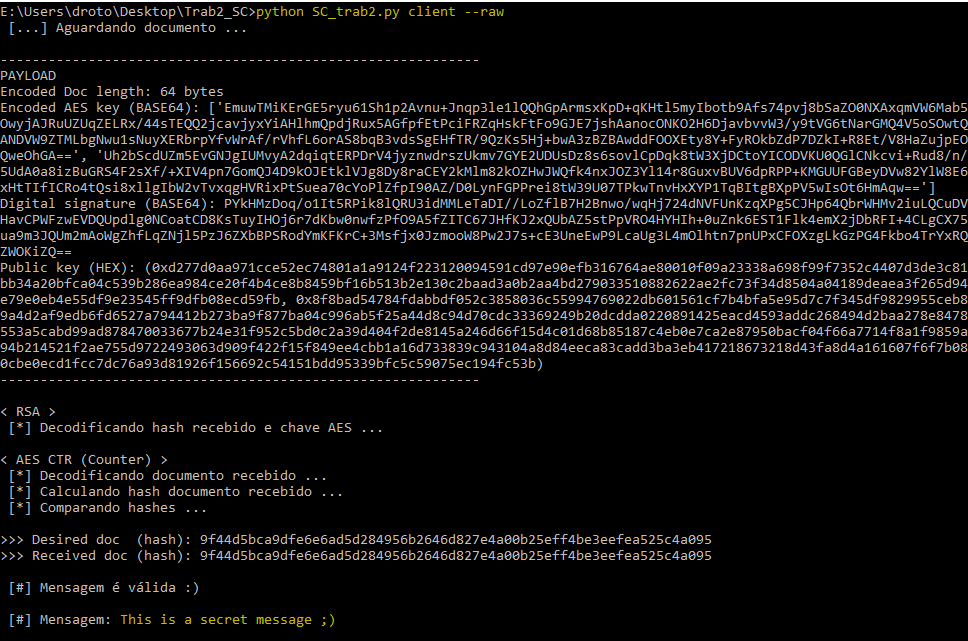
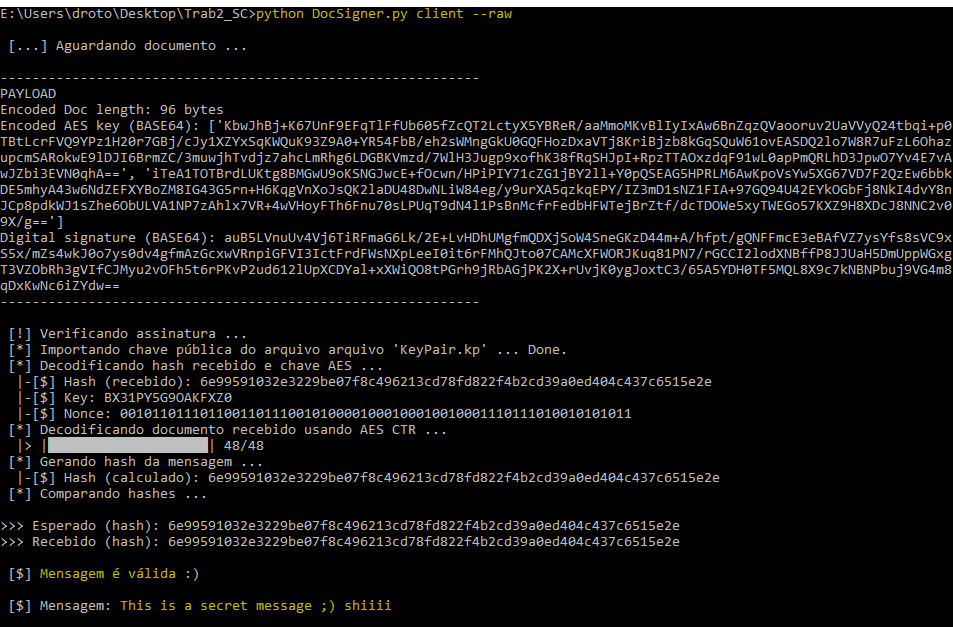
Versão final (mesmo kk)

diff --git a/DocSigner.py b/DocSigner.py
@@ -53,7 +53,7 @@ def SignDoc(filename):
             aes_ctr.ComputeKeyBlocks(aes_key)
             aes_ctr.SetNonce(nonce.to_bytes(8, byteorder='big'))
             # Codifica o documento (AES CTR) e coloca no payload
-            print(" [*] Codificando arquivo (AES CTR) ... ", end='')
+            print(" [*] Codificando arquivo usando AES CTR ...")
             encoded = aes_ctr.Encode(filename=filename)
             payload['doc'] = encoded.hex() # HEX
         except NoKeyBlocks:
@@ -99,7 +99,7 @@ def SignMsg(plain):
         aes_ctr.ComputeKeyBlocks(aes_key)
         aes_ctr.SetNonce(nonce.to_bytes(8, byteorder='big'))
         # Codifica a mensagem (AES CTR) e coloca no payload
-        print(" [*] Codificando mensagem (AES CTR) ... ", end='')
+        print(" [*] Codificando mensagem usando AES CTR ...")
         encoded = aes_ctr.Encode(plain=plain)
         payload['doc'] = encoded.hex() # HEX
     except NoKeyBlocks:
@@ -168,13 +168,12 @@ def Client(mode):
         print("  |-[$] Hash (recebido):", target_hash)
         print("  |-[$] Key:", aes_key)
         print("  |-[$] Nonce: {:064b}".format(int.from_bytes(nonce_bytes, byteorder="big")))
-
-        print(" [*] Decodificando documento recebido usando AES CTR ...", end='')
         # Monta a estrutura para o algoritmo AES
         aes_ctr = AES_CTR()
         aes_ctr.ComputeKeyBlocks(aes_key)
         aes_ctr.SetNonce(nonce_bytes)
         # Decodifica o documento recebido (AES CTR)
+        print(" [*] Decodificando documento recebido usando AES CTR ...")
         doc = aes_ctr.Decode(payload_enc_doc)
 
         print()

diff --git a/MyCrypt.py b/MyCrypt.py
@@ -633,7 +633,7 @@ class AES_CTR():
                         to_AES = self.nonce + counter.to_bytes(8, byteorder='big') # to_aes 128 bits
                         enc_counter = AES.Encode(to_AES, self.keyBlocks)
                         encoded += xor(enc_counter, plain_state)
-                        print('\r\t\t\t\t\t' + " |{}| {}/{}".format(getLoadingBar(num_bytes, fileSize), num_bytes, fileSize), end='')
+                        print('\r  |> ' + "|{}| {}/{}".format(getLoadingBar(num_bytes, fileSize), num_bytes, fileSize), end='')
                         if not data:    break
                         counter += 1
                         plain_state = b''
@@ -673,7 +673,7 @@ class AES_CTR():
             else:
                 decoded += xor(enc_counter, encoded_state).rstrip(b'\x00')
 
-            print('\r\t\t\t\t\t\t\t' + " |{}| {}/{}".format(getLoadingBar(num_bytes, len(encoded)), num_bytes, len(encoded)), end='')
+            print('\r  |> ' + "|{}| {}/{}".format(getLoadingBar(num_bytes, len(encoded)), num_bytes, len(encoded)), end='')
             counter += 1                 
             encoded_state = b''
 
